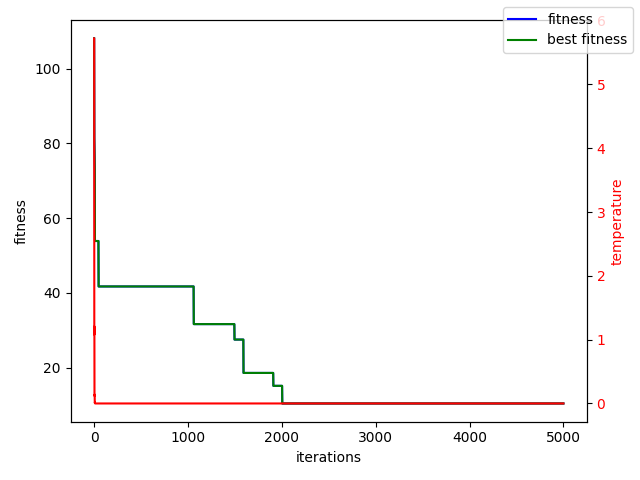
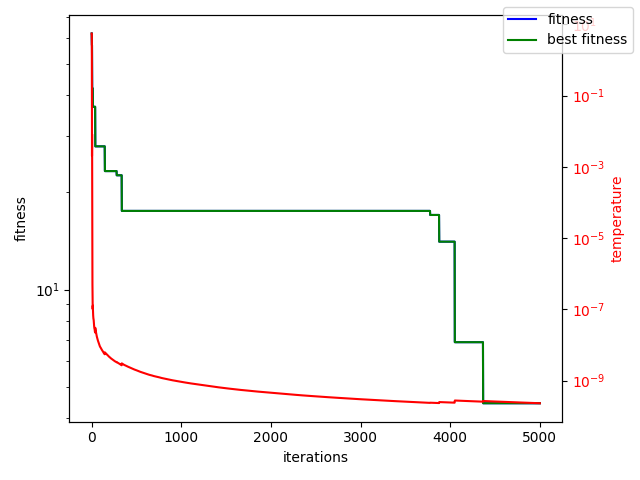
update visualization for SA to use log scale and parameter search for rastrigin SA

diff --git a/algorithms/simulated_annealing.py b/algorithms/simulated_annealing.py
@@ -129,12 +129,14 @@ def print_simulated_annealing(solutions, fitnesses, temperatures, filename):
 
     ax1.set_xlabel('iterations')
     ax1.set_ylabel('fitness')
+    plt.yscale("log")
     ax1.plot(fitnesses, color=fitness_color, label='fitness')
     ax1.plot(best_fitness, color=best_fitness_color, label='best fitness')
     fig.legend()
     ax1.tick_params(axis='y')
 
     ax2 = ax1.twinx()
+    plt.yscale("log")
     ax2.set_ylabel('temperature', color=temperatures_color)
     ax2.plot(temperatures, color=temperatures_color)
     ax2.tick_params(axis='y', labelcolor=temperatures_color)
